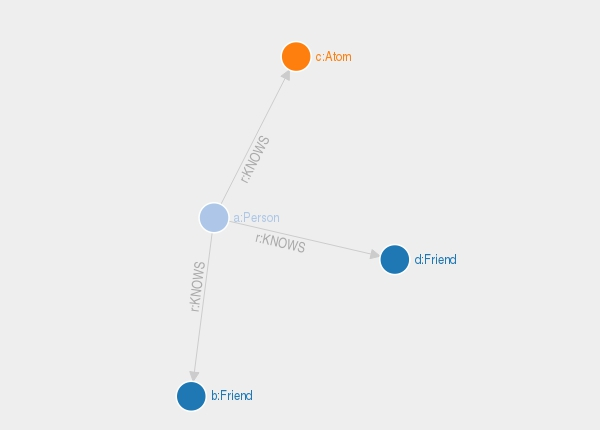
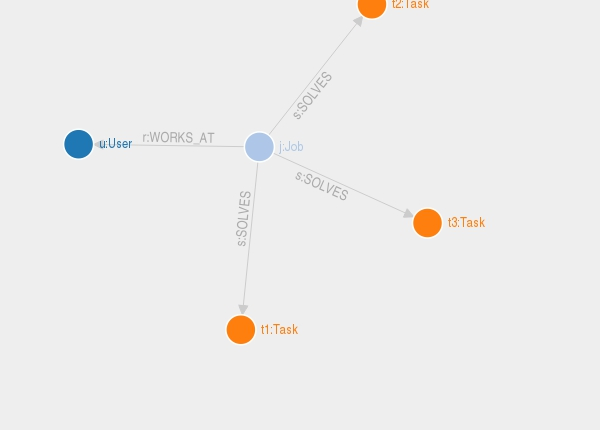
Site checkin for project javadoc-cypher-doclet

diff --git a/de/jotschi/javadoctest/Job.html b/de/jotschi/javadoctest/Job.html
@@ -2,7 +2,7 @@
 <!-- NewPage -->
 <html lang="en">
 <head>
-<!-- Generated by javadoc (1.8.0_31) on Sat Oct 03 19:26:02 CEST 2015 -->
+<!-- Generated by javadoc (1.8.0_31) on Sat Oct 03 19:30:44 CEST 2015 -->
 <meta http-equiv="Content-Type" content="text/html; charset=UTF-8">
 <title>Job (javadoc-cypher-doclet 0.0.1-SNAPSHOT Test API)</title>
 <meta name="date" content="2015-10-03">
@@ -109,9 +109,10 @@ extends <a href="http://docs.oracle.com/javase/8/docs/api/java/lang/Object.html?
  
  <pre>
  <code>
- 	(a:Person)&lt;-[r:KNOWS]-(b:Friend)
- 	(a)&lt;-[r:KNOWS]-(c:Atom)
- 	(a)&lt;-[r]-&gt;(d:Friend)
+ 	(j:Job)&lt;-[r:WORKS_AT]-(u:User)
+ 	(j)-[s:SOLVES]-&gt;(t1:Task)
+ 	(j)-[s:SOLVES]-&gt;(t2:Task)
+  (j)-[s:SOLVES]-&gt;(t3:Task)
  </code>
  </pre>
  <p>

diff --git a/de/jotschi/javadoctest/User.html b/de/jotschi/javadoctest/User.html
@@ -2,7 +2,7 @@
 <!-- NewPage -->
 <html lang="en">
 <head>
-<!-- Generated by javadoc (1.8.0_31) on Sat Oct 03 19:26:02 CEST 2015 -->
+<!-- Generated by javadoc (1.8.0_31) on Sat Oct 03 19:30:44 CEST 2015 -->
 <meta http-equiv="Content-Type" content="text/html; charset=UTF-8">
 <title>User (javadoc-cypher-doclet 0.0.1-SNAPSHOT Test API)</title>
 <meta name="date" content="2015-10-03">
@@ -109,9 +109,8 @@ extends <a href="http://docs.oracle.com/javase/8/docs/api/java/lang/Object.html?
  
  <pre>
  <code>
- 	(a:Person)&lt;-[r:KNOWS]-(b:Friend)
- 	(a)&lt;-[r:KNOWS]-(c:Atom)
- 	(a)&lt;-[r]-&gt;(d:Friend)
+ 	(u:User)-[r:WORKS_AT]-&gt;(j:JOB)
+ 	(u2:User)-[r:WORKS_AT]-&gt;(j)
  </code>
  </pre>
  <p>

diff --git a/de/jotschi/javadoctest/class-use/DocletTest.html b/de/jotschi/javadoctest/class-use/DocletTest.html
@@ -2,7 +2,7 @@
 <!-- NewPage -->
 <html lang="en">
 <head>
-<!-- Generated by javadoc (1.8.0_31) on Sat Oct 03 19:26:02 CEST 2015 -->
+<!-- Generated by javadoc (1.8.0_31) on Sat Oct 03 19:30:44 CEST 2015 -->
 <meta http-equiv="Content-Type" content="text/html; charset=UTF-8">
 <title>Uses of Class de.jotschi.javadoctest.DocletTest (javadoc-cypher-doclet 0.0.1-SNAPSHOT Test API)</title>
 <meta name="date" content="2015-10-03">

diff --git a/de/jotschi/javadoctest/class-use/User.html b/de/jotschi/javadoctest/class-use/User.html
@@ -2,7 +2,7 @@
 <!-- NewPage -->
 <html lang="en">
 <head>
-<!-- Generated by javadoc (1.8.0_31) on Sat Oct 03 19:26:02 CEST 2015 -->
+<!-- Generated by javadoc (1.8.0_31) on Sat Oct 03 19:30:44 CEST 2015 -->
 <meta http-equiv="Content-Type" content="text/html; charset=UTF-8">
 <title>Uses of Class de.jotschi.javadoctest.User (javadoc-cypher-doclet 0.0.1-SNAPSHOT Test API)</title>
 <meta name="date" content="2015-10-03">

diff --git a/de/jotschi/javadoctest/class-use/Job.html b/de/jotschi/javadoctest/class-use/Job.html
@@ -2,7 +2,7 @@
 <!-- NewPage -->
 <html lang="en">
 <head>
-<!-- Generated by javadoc (1.8.0_31) on Sat Oct 03 19:26:02 CEST 2015 -->
+<!-- Generated by javadoc (1.8.0_31) on Sat Oct 03 19:30:44 CEST 2015 -->
 <meta http-equiv="Content-Type" content="text/html; charset=UTF-8">
 <title>Uses of Class de.jotschi.javadoctest.Job (javadoc-cypher-doclet 0.0.1-SNAPSHOT Test API)</title>
 <meta name="date" content="2015-10-03">

diff --git a/de/jotschi/javadoctest/package-tree.html b/de/jotschi/javadoctest/package-tree.html
@@ -2,7 +2,7 @@
 <!-- NewPage -->
 <html lang="en">
 <head>
-<!-- Generated by javadoc (1.8.0_31) on Sat Oct 03 19:26:02 CEST 2015 -->
+<!-- Generated by javadoc (1.8.0_31) on Sat Oct 03 19:30:44 CEST 2015 -->
 <meta http-equiv="Content-Type" content="text/html; charset=UTF-8">
 <title>de.jotschi.javadoctest Class Hierarchy (javadoc-cypher-doclet 0.0.1-SNAPSHOT Test API)</title>
 <meta name="date" content="2015-10-03">

diff --git a/de/jotschi/javadoctest/package-use.html b/de/jotschi/javadoctest/package-use.html
@@ -2,7 +2,7 @@
 <!-- NewPage -->
 <html lang="en">
 <head>
-<!-- Generated by javadoc (1.8.0_31) on Sat Oct 03 19:26:02 CEST 2015 -->
+<!-- Generated by javadoc (1.8.0_31) on Sat Oct 03 19:30:44 CEST 2015 -->
 <meta http-equiv="Content-Type" content="text/html; charset=UTF-8">
 <title>Uses of Package de.jotschi.javadoctest (javadoc-cypher-doclet 0.0.1-SNAPSHOT Test API)</title>
 <meta name="date" content="2015-10-03">

diff --git a/de/jotschi/javadoctest/package-frame.html b/de/jotschi/javadoctest/package-frame.html
@@ -2,7 +2,7 @@
 <!-- NewPage -->
 <html lang="en">
 <head>
-<!-- Generated by javadoc (1.8.0_31) on Sat Oct 03 19:26:02 CEST 2015 -->
+<!-- Generated by javadoc (1.8.0_31) on Sat Oct 03 19:30:44 CEST 2015 -->
 <meta http-equiv="Content-Type" content="text/html; charset=UTF-8">
 <title>de.jotschi.javadoctest (javadoc-cypher-doclet 0.0.1-SNAPSHOT Test API)</title>
 <meta name="date" content="2015-10-03">

diff --git a/de/jotschi/javadoctest/package-summary.html b/de/jotschi/javadoctest/package-summary.html
@@ -2,7 +2,7 @@
 <!-- NewPage -->
 <html lang="en">
 <head>
-<!-- Generated by javadoc (1.8.0_31) on Sat Oct 03 19:26:02 CEST 2015 -->
+<!-- Generated by javadoc (1.8.0_31) on Sat Oct 03 19:30:44 CEST 2015 -->
 <meta http-equiv="Content-Type" content="text/html; charset=UTF-8">
 <title>de.jotschi.javadoctest (javadoc-cypher-doclet 0.0.1-SNAPSHOT Test API)</title>
 <meta name="date" content="2015-10-03">

diff --git a/constant-values.html b/constant-values.html
@@ -2,7 +2,7 @@
 <!-- NewPage -->
 <html lang="en">
 <head>
-<!-- Generated by javadoc (1.8.0_31) on Sat Oct 03 19:26:02 CEST 2015 -->
+<!-- Generated by javadoc (1.8.0_31) on Sat Oct 03 19:30:44 CEST 2015 -->
 <meta http-equiv="Content-Type" content="text/html; charset=UTF-8">
 <title>Constant Field Values (javadoc-cypher-doclet 0.0.1-SNAPSHOT Test API)</title>
 <meta name="date" content="2015-10-03">

diff --git a/deprecated-list.html b/deprecated-list.html
@@ -2,7 +2,7 @@
 <!-- NewPage -->
 <html lang="en">
 <head>
-<!-- Generated by javadoc (1.8.0_31) on Sat Oct 03 19:26:02 CEST 2015 -->
+<!-- Generated by javadoc (1.8.0_31) on Sat Oct 03 19:30:44 CEST 2015 -->
 <meta http-equiv="Content-Type" content="text/html; charset=UTF-8">
 <title>Deprecated List (javadoc-cypher-doclet 0.0.1-SNAPSHOT Test API)</title>
 <meta name="date" content="2015-10-03">

diff --git a/overview-tree.html b/overview-tree.html
@@ -2,7 +2,7 @@
 <!-- NewPage -->
 <html lang="en">
 <head>
-<!-- Generated by javadoc (1.8.0_31) on Sat Oct 03 19:26:02 CEST 2015 -->
+<!-- Generated by javadoc (1.8.0_31) on Sat Oct 03 19:30:44 CEST 2015 -->
 <meta http-equiv="Content-Type" content="text/html; charset=UTF-8">
 <title>Class Hierarchy (javadoc-cypher-doclet 0.0.1-SNAPSHOT Test API)</title>
 <meta name="date" content="2015-10-03">
